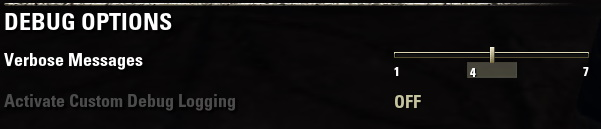
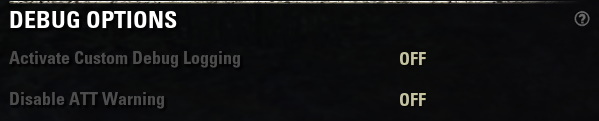
Organize MM and LGS settings better

diff --git a/3-master_merchant.html b/3-master_merchant.html
@@ -63,15 +63,19 @@ title: Master Merchant
 <p class="list-2">&bull;&nbsp; <a href="#RefreshButton">3.7.5 Refresh Button</a></p>
 <p class="list-1">&bull;&nbsp; <a href="#StatisticsWindow">3.8 Statistics Window</a></p>
 <p class="list-1">&bull;&nbsp; <a href="#Settings">3.9 Settings</a></p>
-<p class="list-2">&bull;&nbsp; <a href="#MasterMerchantWindowOptions">3.9.1 Master Merchant Window Options</a></p>
-<p class="list-2">&bull;&nbsp; <a href="#AlertOptions">3.9.2 Alert Options</a></p>
-<p class="list-3">&bull;&nbsp; <a href="#OnScreenandChatAlert">3.9.2.1 On-Screen and Chat Alert</a></p>
-<p class="list-2">&bull;&nbsp; <a href="#CalculationDisplayOptions">3.9.3 Calculation Display Options</a></p>
-<p class="list-2">&bull;&nbsp; <a href="#DataManagementOptions">3.9.4 Data Management Options</a></p>
-<p class="list-2">&bull;&nbsp; <a href="#OtherTooltipOptions">3.9.5 Other Tooltip Options</a></p>
-<p class="list-2">&bull;&nbsp; <a href="#InventoryOptions">3.9.6 Inventory Options</a></p>
-<p class="list-2">&bull;&nbsp; <a href="#GuildStoreOptions">3.9.7 Guild Store Options</a></p>
-<p class="list-2">&bull;&nbsp; <a href="#DebugOptions">3.9.8 Debug Options</a></p>
+<p class="list-2">&bull;&nbsp; <a href="#MasterMerchant">3.9.1 Master Merchant</a></p>
+<p class="list-3">&bull;&nbsp; <a href="#MasterMerchantWindowOptions">3.9.1.1 Master Merchant Window Options</a></p>
+<p class="list-3">&bull;&nbsp; <a href="#AlertOptions">3.9.1.2 Alert Options</a></p>
+<p class="list-3">&bull;&nbsp; <a href="#OnScreenandChatAlert">3.9.1.3 On-Screen and Chat Alert</a></p>
+<p class="list-3">&bull;&nbsp; <a href="#CalculationDisplayOptions">3.9.1.4 Calculation Display Options</a></p>
+<p class="list-2">&bull;&nbsp; <a href="#OtherTooltipOptions">3.9.2 Other Tooltip Options</a></p>
+<p class="list-2">&bull;&nbsp; <a href="#InventoryOptions">3.9.3 Inventory Options</a></p>
+<p class="list-2">&bull;&nbsp; <a href="#GuildStoreOptions">3.9.4 Guild Store Options</a></p>
+<p class="list-2">&bull;&nbsp; <a href="#GuildMasterOptions">3.9.5 Guild Master Options</a></p>
+<p class="list-2">&bull;&nbsp; <a href="#DebugOptions">3.9.6 Debug Options</a></p>
+<p class="list-2">&bull;&nbsp; <a href="#LibGuildStore">3.9.7 LibGuildStore</a></p>
+<p class="list-3">&bull;&nbsp; <a href="#SalesManagementOptions">3.9.7.1 Sales Management Options</a></p>
+<p class="list-3">&bull;&nbsp; <a href="#DataManagementOptions">3.9.7.2 Data Management Options</a></p>
 <p class="list-1">&bull;&nbsp; <a href="#Misc">3.10 Misc</a></p>
 <p class="list-2">&bull;&nbsp; <a href="#PopupItemData">3.10.1 Popup Item Data</a></p>
 <p class="list-2">&bull;&nbsp; <a href="#LevelQualitySelectors">3.10.2 Level Quality Selectors</a></p>
@@ -363,7 +367,9 @@ title: Master Merchant
 <p class="empty">&nbsp;</p>
 <h1 class="header1" id="Settings">3.9 - Settings</h1>
 <p class="empty">&nbsp;</p>
-<h2 class="header2" id="MasterMerchantWindowOptions">3.9.1 - Master Merchant Window Options</h2>
+<h2 class="header2" id="MasterMerchant">3.9.1 - Master Merchant</h2>
+<p class="empty">&nbsp;</p>
+<h3 class="header3" id="MasterMerchantWindowOptions">3.9.1.1 - Master Merchant Window Options</h3>
 <p class="empty">&nbsp;</p>
 <p>{% include image.html file="img/main_wondow_options.jpg" alt="main_wondow_options" %}</p>
 <p class="empty">&nbsp;</p>
@@ -374,7 +380,7 @@ title: Master Merchant
 <p class="empty">&nbsp;</p>
 <p class="note"> If you sold a <font class="purple">Crafting Motif 63: Dremora Bows</font> for <font class="yellow">11,000</font> {% include image-inline.html max-width="20px" file="img/currency_gold.png" alt="currency_gold" %} the master merchant window will show what you received in the mail which would be <font class="yellow">10,230</font> {% include image-inline.html max-width="20px" file="img/currency_gold.png" alt="currency_gold" %}.</p>
 <p class="empty">&nbsp;</p>
-<h2 class="header2" id="AlertOptions">3.9.2 - Alert Options</h2>
+<h3 class="header3" id="AlertOptions">3.9.1.2 - Alert Options</h3>
 <p class="empty">&nbsp;</p>
 <p>{% include image.html file="img/alert_options.jpg" alt="alert_options" %}</p>
 <p class="empty">&nbsp;</p>
@@ -388,20 +394,44 @@ title: Master Merchant
 <p class="empty">&nbsp;</p>
 <p class="note"> <font class="tan">Show Multiple Alerts</font> and <font class="tan">Offline Sales Report</font> may not function as intended with the addition of LibHistoire. However, you will still see notifications of sales as they are received.</p>
 <p class="empty">&nbsp;</p>
-<h3 id="OnScreenandChatAlert">3.9.2.1 - On-Screen and Chat Alert</h3>
+<h3 id="OnScreenandChatAlert">3.9.1.3 - On-Screen and Chat Alert</h3>
 <p class="empty">&nbsp;</p>
 <p>{% include image.html file="img/onscreen_alert.jpg" alt="onscreen_alert" %}</p>
 <p>{% include image.html file="img/chat_alert.jpg" alt="chat_alert" %}</p>
 <p class="empty">&nbsp;</p>
-<h2 class="header2" id="CalculationDisplayOptions">3.9.3 - Calculation Display Options</h2>
+<h3 class="header3" id="CalculationDisplayOptions">3.9.1.4 - Calculation Display Options</h3>
 <p class="empty">&nbsp;</p>
 <p>{% include image.html file="img/tool_tip_settings.jpg" alt="tool_tip_settings" %}</p>
 <p class="empty">&nbsp;</p>
-<h2 class="header2" id="DataManagementOptions">3.9.4 - Data Management Options</h2>
+<h2 class="header2" id="OtherTooltipOptions">3.9.2 - Other Tooltip Options</h2>
 <p class="empty">&nbsp;</p>
-<p class="note">Data Management Options is now under settings for <a  href="#LibGuildStoreforMasterMerchant" >LibGuildStore</a>.</p>
+<p>{% include image.html file="img/other_tooltip_options.jpg" alt="other_tooltip_options" %}</p>
 <p class="empty">&nbsp;</p>
-<p>{% include image.html file="img/data_management_options.jpg" alt="data_management_options" %}</p>
+<p class="list-1">&bull;&nbsp; <font class="tan">Level/Quality Selectors</font>: Adds Level and Quality selectors to the tooltip window. You can bring up the window by clicking a link in chat or when you right click an item and choose <a  href="#PopupItemData" >Popup Item Data</a>. See the <a  href="#LevelQualitySelectors" >Level Quality Selectors</a> section for example of the selectors that appear on the tooltip window.</p>
+<p class="empty">&nbsp;</p>
+<h2 class="header2" id="InventoryOptions">3.9.3 - Inventory Options</h2>
+<p class="empty">&nbsp;</p>
+<p>{% include image.html file="img/inventory_options.jpg" alt="inventory_options" %}</p>
+<p class="empty">&nbsp;</p>
+<h2 class="header2" id="GuildStoreOptions">3.9.4 - Guild Store Options</h2>
+<p class="empty">&nbsp;</p>
+<p>{% include image.html file="img/guild_store_options.jpg" alt="guild_store_options" %}</p>
+<p class="empty">&nbsp;</p>
+<h2 class="header2" id="GuildMasterOptions">3.9.5 - Guild Master Options</h2>
+<p class="empty">&nbsp;</p>
+<p>{% include image.html file="img/guild_master_options.jpg" alt="guild_master_options" %}</p>
+<p class="empty">&nbsp;</p>
+<h2 class="header2" id="DebugOptions">3.9.6 - Debug Options</h2>
+<p class="empty">&nbsp;</p>
+<p>{% include image.html file="img/debug_options.jpg" alt="debug_options" %}</p>
+<p class="empty">&nbsp;</p>
+<p class="list-1">&bull;&nbsp; <font class="tan">Disable ATT Warning</font>: If you enjoy using both MM and ATT together then please disable the warning that ATT files are active with this toggle.</p>
+<p class="empty">&nbsp;</p>
+<h2 class="header2" id="LibGuildStore">3.9.7 - LibGuildStore</h2>
+<p class="empty">&nbsp;</p>
+<h3 class="header3" id="SalesManagementOptions">3.9.7.1 - Sales Management Options</h3>
+<p class="empty">&nbsp;</p>
+<p>{% include image.html file="img/lgs_sales_management.jpg" alt="lgs_sales_management" %}</p>
 <p class="empty">&nbsp;</p>
 <p class="list-1">&bull;&nbsp; <font class="tan">Use Sales History Size Only</font>: This will ignore the minimum and maximum count for sales. If there are 4698 sales of an item with the day range selected for retaining data, then the sales will not be trimmed.</p>
 <p class="list-1">&bull;&nbsp; <font class="tan">Sales History Size</font>: The days range to retain data.</p>
@@ -409,23 +439,9 @@ title: Master Merchant
 <p class="list-1">&bull;&nbsp; <font class="tan">Max Item Count</font>: The maximum count of sales for a specific item before the days range is considered. If you select 90 days to retain data, and you choose 1000, then the oldest sale once the threshold is reached will be trimmed. Meaning if you have 1001 sales for an item, 1 will be trimmed and 100 will remain.</p>
 <p class="list-1">&bull;&nbsp; <font class="tan">Minimal Indexing</font>: Does not add search words for items. It only adds the player search word for displaying personal sales. Searching in the Master merchant window is still possible but will take extra time.</p>
 <p class="empty">&nbsp;</p>
-<h2 class="header2" id="OtherTooltipOptions">3.9.5 - Other Tooltip Options</h2>
+<h3 class="header3" id="DataManagementOptions">3.9.7.2 - Data Management Options</h3>
 <p class="empty">&nbsp;</p>
-<p>{% include image.html file="img/other_tooltip_options.jpg" alt="other_tooltip_options" %}</p>
-<p class="empty">&nbsp;</p>
-<p class="list-1">&bull;&nbsp; <font class="tan">Level/Quality Selectors</font>: Adds Level and Quality selectors to the tooltip window. You can bring up the window by clicking a link in chat or when you right click an item and choose <a  href="#PopupItemData" >Popup Item Data</a>. See the <a  href="#LevelQualitySelectors" >Level Quality Selectors</a> section for example of the selectors that appear on the tooltip window.</p>
-<p class="empty">&nbsp;</p>
-<h2 class="header2" id="InventoryOptions">3.9.6 - Inventory Options</h2>
-<p class="empty">&nbsp;</p>
-<p>{% include image.html file="img/inventory_options.jpg" alt="inventory_options" %}</p>
-<p class="empty">&nbsp;</p>
-<h2 class="header2" id="GuildStoreOptions">3.9.7 - Guild Store Options</h2>
-<p class="empty">&nbsp;</p>
-<p>{% include image.html file="img/guild_store_options.jpg" alt="guild_store_options" %}</p>
-<p class="empty">&nbsp;</p>
-<h2 class="header2" id="DebugOptions">3.9.8 - Debug Options</h2>
-<p class="empty">&nbsp;</p>
-<p>{% include image.html file="img/debug_options.jpg" alt="debug_options" %}</p>
+<p>{% include image.html file="img/lgs_data_management.jpg" alt="lgs_data_management" %}</p>
 <p class="empty">&nbsp;</p>
 <h1 class="header1" id="Misc">3.10 - Misc</h1>
 <p class="empty">&nbsp;</p>
